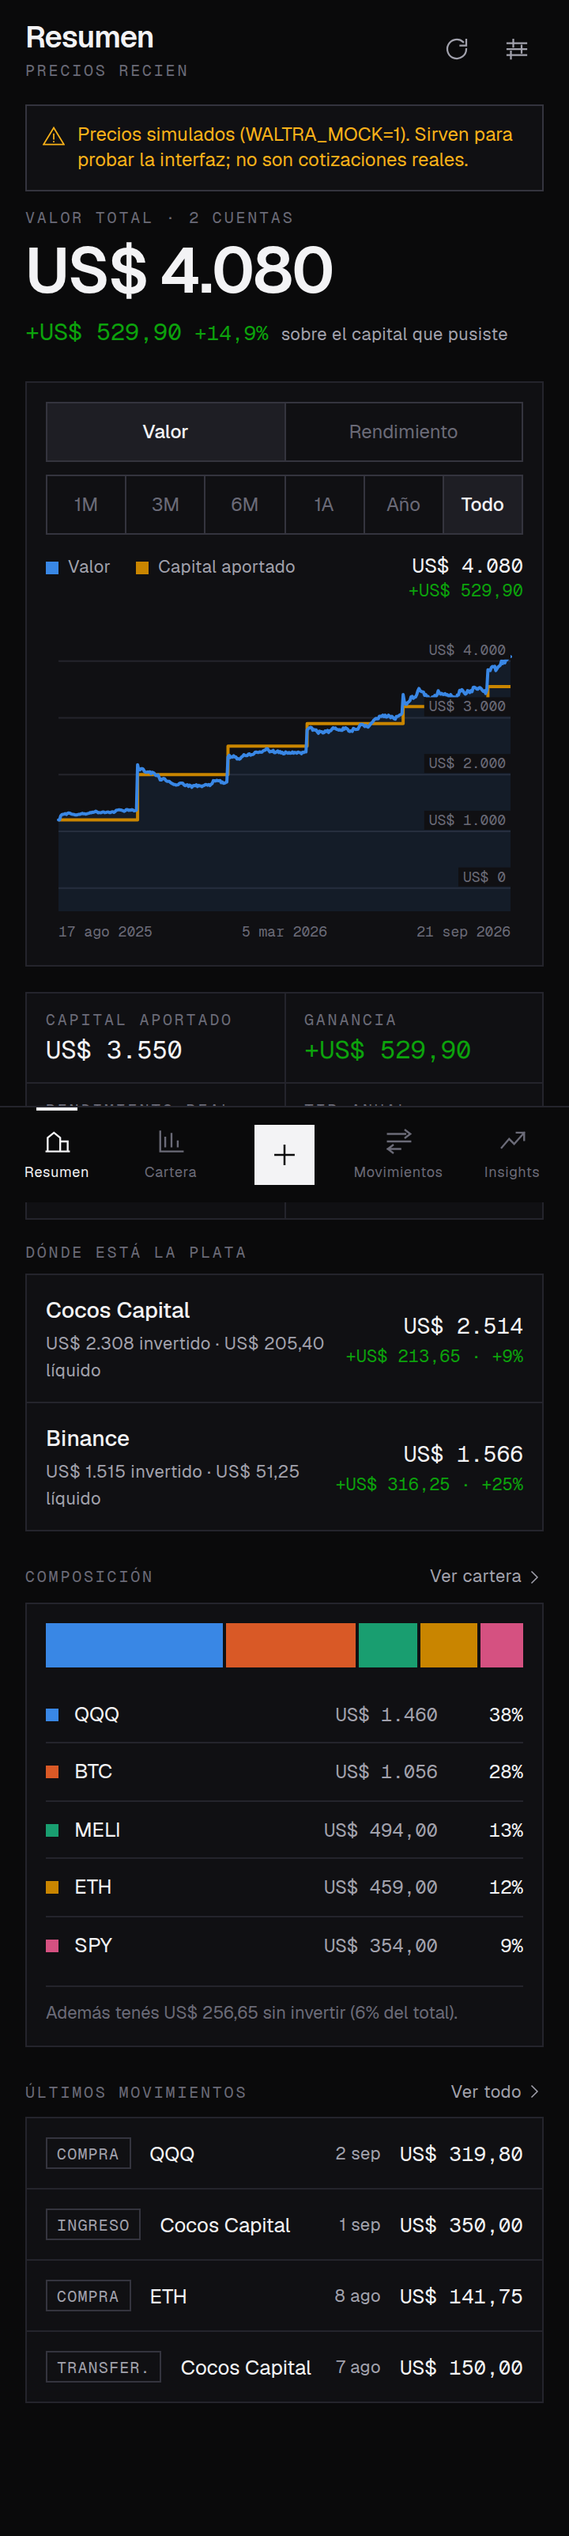
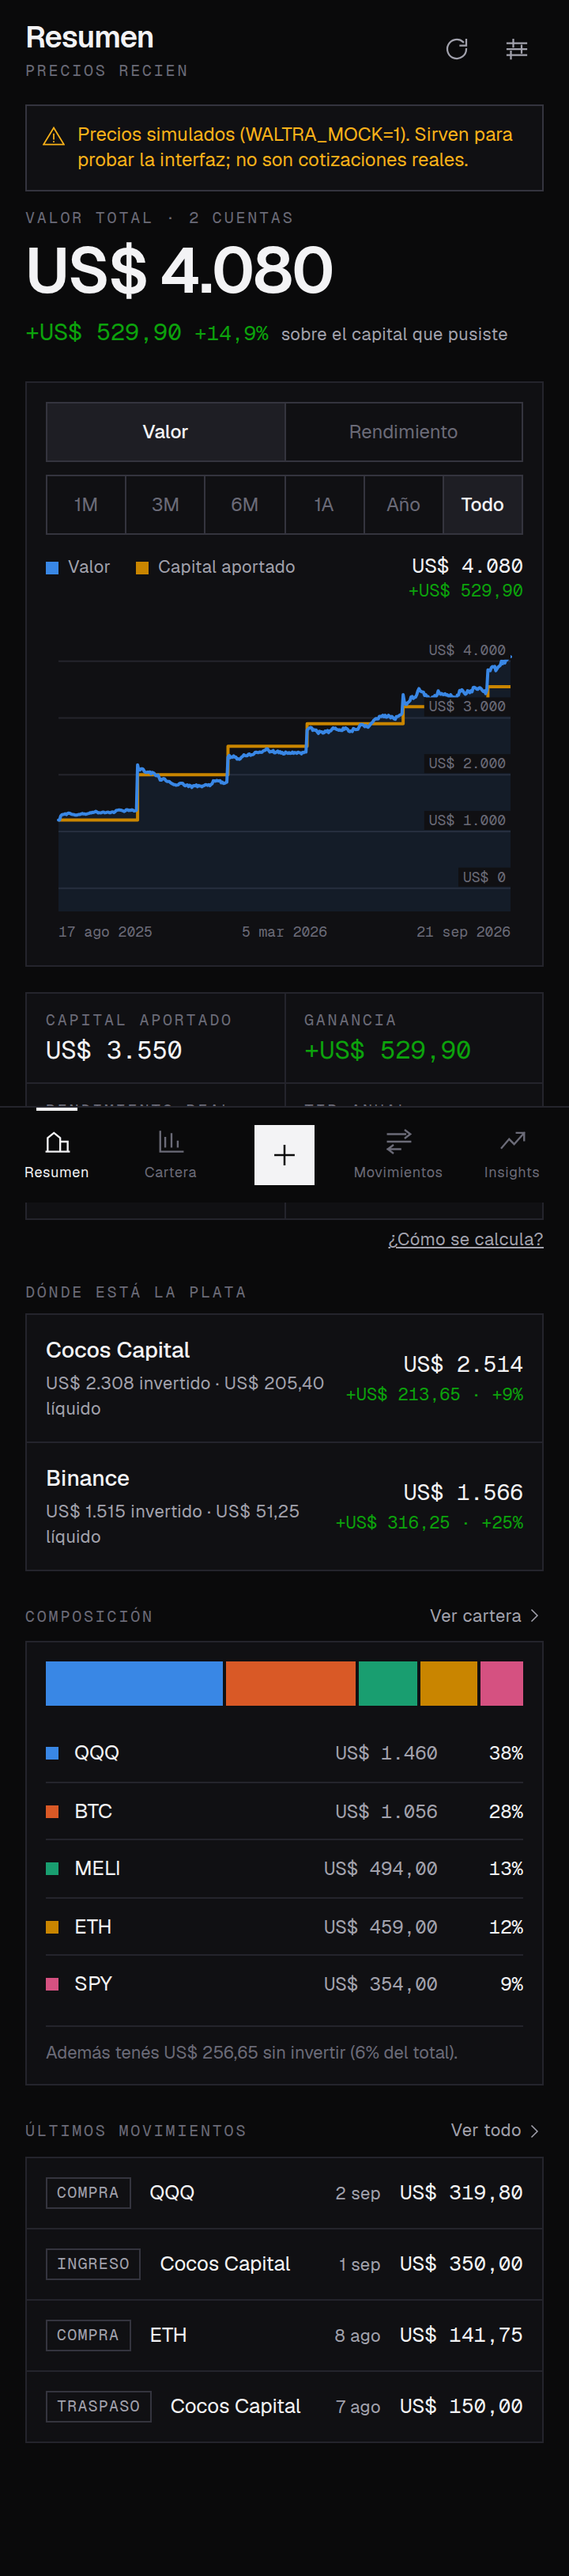
Instalacion en el telefono, guia de despliegue y filas mas legibles
- Boton explicito para instalar en la pantalla de inicio. Chrome ofrece su
  propio cartel, pero aparece cuando quiere y es facil perderselo; en iOS o
  cuando el evento no llego, se da la instruccion manual en vez de un boton
  que no haria nada.
- El README ahora explica los dos caminos reales para usarla desde el
  celular: servida en la red local, o desplegada con la clave de acceso
  puesta. Con la aclaracion de que los movimientos no viajan al servidor en
  ninguno de los dos casos.
- Filas de movimientos: la fecha va primero y sin anio (el encabezado del mes
  ya lo dice), la cuenta con su nombre corto, y el precio unitario sin
  simbolo de moneda, que es el mismo del monto de la derecha. Lo que se corta
  al final pasa a ser el detalle, no el dato.
- Un traspaso se lee "Cocos -> Binance" en vez de truncar el nombre largo.

Claude-Session: https://claude.ai/code/session_012k6kpxZS4WU4jgijf6NgmZ

diff --git a/src/app/movimientos/page.tsx b/src/app/movimientos/page.tsx
@@ -7,7 +7,16 @@ import { Sheet } from "@/components/ui/Sheet";
 import { EmptyStart } from "@/components/EmptyStart";
 import { IconEdit, IconTrash } from "@/components/icons";
 import { useStore } from "@/lib/store";
-import { longDate, money, percent, quantity as fmtQty, shortDate, TX_LABEL, TX_SHORT } from "@/lib/format";
+import {
+  longDate,
+  money,
+  percent,
+  plainNumber,
+  quantity as fmtQty,
+  shortDate,
+  TX_LABEL,
+  TX_SHORT,
+} from "@/lib/format";
 import type { Transaction, TxType } from "@/lib/types";
 
 const FILTERS: { value: TxType | "todos" | "capital"; label: string }[] = [
@@ -81,6 +90,8 @@ export default function Movimientos() {
 
   const assetOf = (tx: Transaction) => assets.find((a) => a.id === tx.assetId);
   const accountOf = (id?: string) => accounts.find((a) => a.id === id)?.name ?? "—";
+  /** "Cocos Capital" -> "Cocos": en una fila apretada alcanza y sobra. */
+  const shortAccount = (id?: string) => accountOf(id).split(/\s+/)[0];
 
   return (
     <div className="pb-6">
@@ -150,13 +161,19 @@ export default function Movimientos() {
                 const outflow = tx.type === "withdraw" || tx.type === "buy" || tx.type === "fee";
                 // El detalle va debajo junto a la fecha: en 360px, una columna
                 // de fecha aparte le come el ancho al dato que importa.
+                // La fecha va primero y sin año: el encabezado del mes ya lo
+                // dice, y asi lo que se corta al final es el detalle de precio,
+                // que ademas se deduce del monto de la derecha.
                 const detailParts = [
+                  shortDate(tx.date, false),
+                  asset ? shortAccount(tx.accountId) : null,
+                  // El simbolo de moneda del precio unitario se omite: es el
+                  // mismo del monto que esta a la derecha, y aca cada caracter
+                  // se paga en texto cortado.
                   tx.quantity
-                    ? `${fmtQty(tx.quantity, 6)} @ ${money(tx.price ?? 0, tx.currency)}`
+                    ? `${fmtQty(tx.quantity, 6)} @ ${plainNumber(tx.price ?? 0, (tx.price ?? 0) >= 1000 ? 0 : 2)}`
                     : null,
-                  asset ? accountOf(tx.accountId) : null,
                   tx.note && tx.note !== "ejemplo" ? tx.note : null,
-                  shortDate(tx.date, true),
                 ].filter(Boolean);
                 return (
                   <button
@@ -167,8 +184,9 @@ export default function Movimientos() {
                     <span className="chip shrink-0">{TX_SHORT[tx.type]}</span>
                     <div className="min-w-0 flex-1">
                       <div className="truncate text-[13px]">
-                        {asset?.symbol ?? accountOf(tx.accountId)}
-                        {tx.type === "transfer" && ` → ${accountOf(tx.counterAccountId)}`}
+                        {tx.type === "transfer"
+                          ? `${shortAccount(tx.accountId)} → ${shortAccount(tx.counterAccountId)}`
+                          : (asset?.symbol ?? accountOf(tx.accountId))}
                       </div>
                       <div className="label mt-0.5 truncate">{detailParts.join(" · ")}</div>
                     </div>

diff --git a/src/components/InstallPrompt.tsx b/src/components/InstallPrompt.tsx
@@ -1,0 +1,78 @@
+"use client";
+
+import { useEffect, useState } from "react";
+
+interface BeforeInstallPromptEvent extends Event {
+  prompt: () => Promise<void>;
+  userChoice: Promise<{ outcome: "accepted" | "dismissed" }>;
+}
+
+/**
+ * Boton para instalar la app en la pantalla de inicio.
+ *
+ * Chrome en Android ofrece su propio cartel, pero aparece cuando quiere y es
+ * facil perderselo. Guardamos el evento y damos un boton explicito en Ajustes,
+ * que es donde alguien lo va a buscar.
+ */
+export function InstallPrompt() {
+  const [deferred, setDeferred] = useState<BeforeInstallPromptEvent | null>(null);
+  const [installed, setInstalled] = useState(false);
+  const [standalone, setStandalone] = useState(false);
+
+  useEffect(() => {
+    const onPrompt = (event: Event) => {
+      event.preventDefault();
+      setDeferred(event as BeforeInstallPromptEvent);
+    };
+    const onInstalled = () => {
+      setInstalled(true);
+      setDeferred(null);
+    };
+    window.addEventListener("beforeinstallprompt", onPrompt);
+    window.addEventListener("appinstalled", onInstalled);
+    setStandalone(window.matchMedia("(display-mode: standalone)").matches);
+    return () => {
+      window.removeEventListener("beforeinstallprompt", onPrompt);
+      window.removeEventListener("appinstalled", onInstalled);
+    };
+  }, []);
+
+  if (standalone || installed) {
+    return (
+      <p className="label leading-snug">
+        Ya está instalada en este teléfono.
+      </p>
+    );
+  }
+
+  if (!deferred) {
+    // Sin el evento (iOS, o Chrome que todavia no lo disparo) damos la
+    // instruccion manual en vez de un boton que no haria nada.
+    return (
+      <p className="label leading-snug">
+        Desde el menú del navegador: <strong>Agregar a la pantalla principal</strong>.
+        Así abre a pantalla completa y anda sin conexión.
+      </p>
+    );
+  }
+
+  return (
+    <>
+      <button
+        className="btn btn-sm w-full"
+        onClick={async () => {
+          await deferred.prompt();
+          const choice = await deferred.userChoice;
+          if (choice.outcome === "accepted") setInstalled(true);
+          setDeferred(null);
+        }}
+      >
+        Instalar en la pantalla de inicio
+      </button>
+      <p className="label mt-2 leading-snug">
+        Abre a pantalla completa y funciona sin conexión. Tus datos ya están en este
+        teléfono.
+      </p>
+    </>
+  );
+}

diff --git a/src/app/ajustes/page.tsx b/src/app/ajustes/page.tsx
@@ -6,6 +6,7 @@ import { SectionTitle } from "@/components/ui/Stat";
 import { Field, Segmented } from "@/components/ui/Field";
 import { Sheet } from "@/components/ui/Sheet";
 import { BulkImport } from "@/components/BulkImport";
+import { InstallPrompt } from "@/components/InstallPrompt";
 import { IconChevron, IconTrash } from "@/components/icons";
 import { newId, useStore } from "@/lib/store";
 import { exportBackup, importBackup, parseBackup, wipeAll } from "@/lib/db";
@@ -358,6 +359,14 @@ export default function Ajustes() {
             {" · "}dólar MEP{" "}
             {portfolio.fxLatest > 0 ? money(portfolio.fxLatest, "ARS", { decimals: 0 }) : "sin dato"}
           </p>
+        </div>
+      </section>
+
+      {/* --- Instalacion --------------------------------------------------- */}
+      <section className="mb-5">
+        <SectionTitle>En tu teléfono</SectionTitle>
+        <div className="card p-3">
+          <InstallPrompt />
         </div>
       </section>
 

diff --git a/src/lib/format.ts b/src/lib/format.ts
@@ -134,7 +134,7 @@ export const TX_SHORT: Record<string, string> = {
   dividend: "Dividendo",
   interest: "Interés",
   fee: "Comisión",
-  transfer: "Transfer.",
+  transfer: "Traspaso",
 };
 
 export const KIND_LABEL: Record<string, string> = {

diff --git a/README.md b/README.md
@@ -70,15 +70,39 @@ npm run dev            # ya escucha en 0.0.0.0
 Entrá desde el teléfono a `http://<ip-de-tu-compu>:3000`. En Chrome de Android:
 menú → *Agregar a la pantalla principal*.
 
-### En producción
+### Para usarla en serio, desde el celular
+
+La app vive en tu teléfono, pero necesita estar servida desde algún lado. Dos
+caminos, según cuánto te importe tenerla siempre a mano.
+
+**a) Solo en tu red, sin desplegar nada.** Levantás el server en tu compu y
+entrás desde el celular:
 
 ```bash
-npm run build
-npm start
+npm run build && npm start     # escucha en 0.0.0.0:3000
 ```
 
-Anda tal cual en Vercel, Railway, Fly o un VPS con Node. Es una app Next.js
-común: las rutas `/api` son server-side y el resto es estático.
+Entrá desde el teléfono a `http://<ip-de-tu-compu>:3000` y agregala a la
+pantalla de inicio. Anda offline una vez instalada, pero para refrescar
+precios la compu tiene que estar prendida.
+
+**b) Desplegada, para tenerla siempre.** Es una app Next.js común, así que
+anda tal cual en Vercel, Railway, Fly o un VPS con Node:
+
+1. Subí el repo a GitHub (ya está) e importalo en Vercel.
+2. En *Settings → Environment Variables* cargá `ANTHROPIC_API_KEY` si querés
+   los insights, y `WALTRA_ACCESS_KEY` con una frase cualquiera para que las
+   rutas `/api` no queden abiertas a internet.
+3. Entrá desde el celular, andá a *Ajustes → Acceso a la API* y pegá esa misma
+   frase. Queda guardada en el teléfono.
+4. *Agregar a la pantalla principal* y listo.
+
+Tus movimientos **no** viajan al servidor en ninguno de los dos casos: viven
+en el navegador del teléfono. El servidor solo busca precios y, si se lo
+pedís, genera los insights.
+
+> Si desplegás, hacé backup desde Ajustes igual: los datos siguen atados a
+> este navegador, no al deploy.
 
 ## Configuración
 
